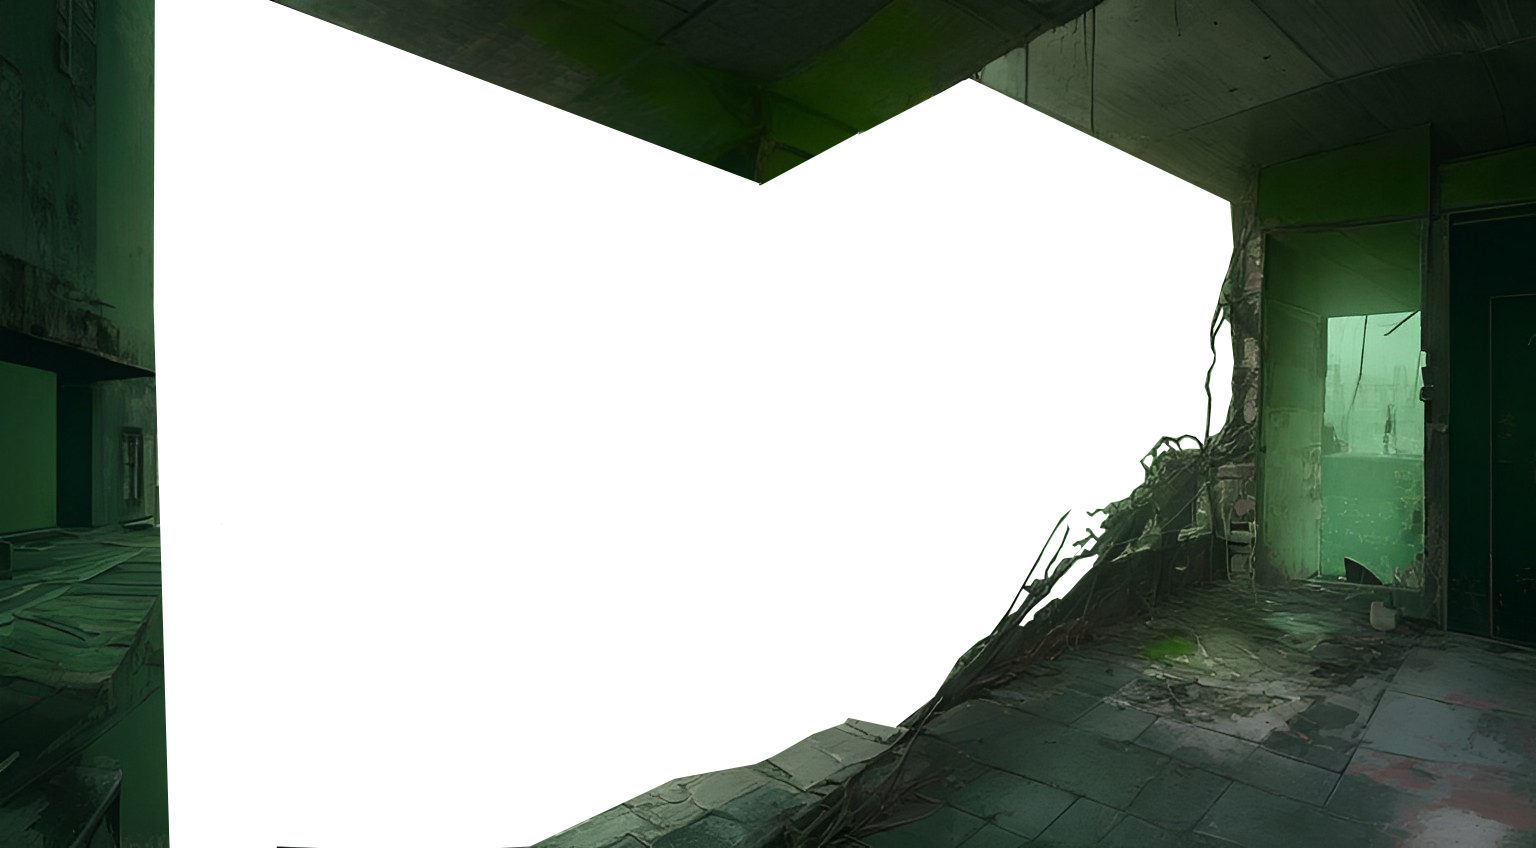
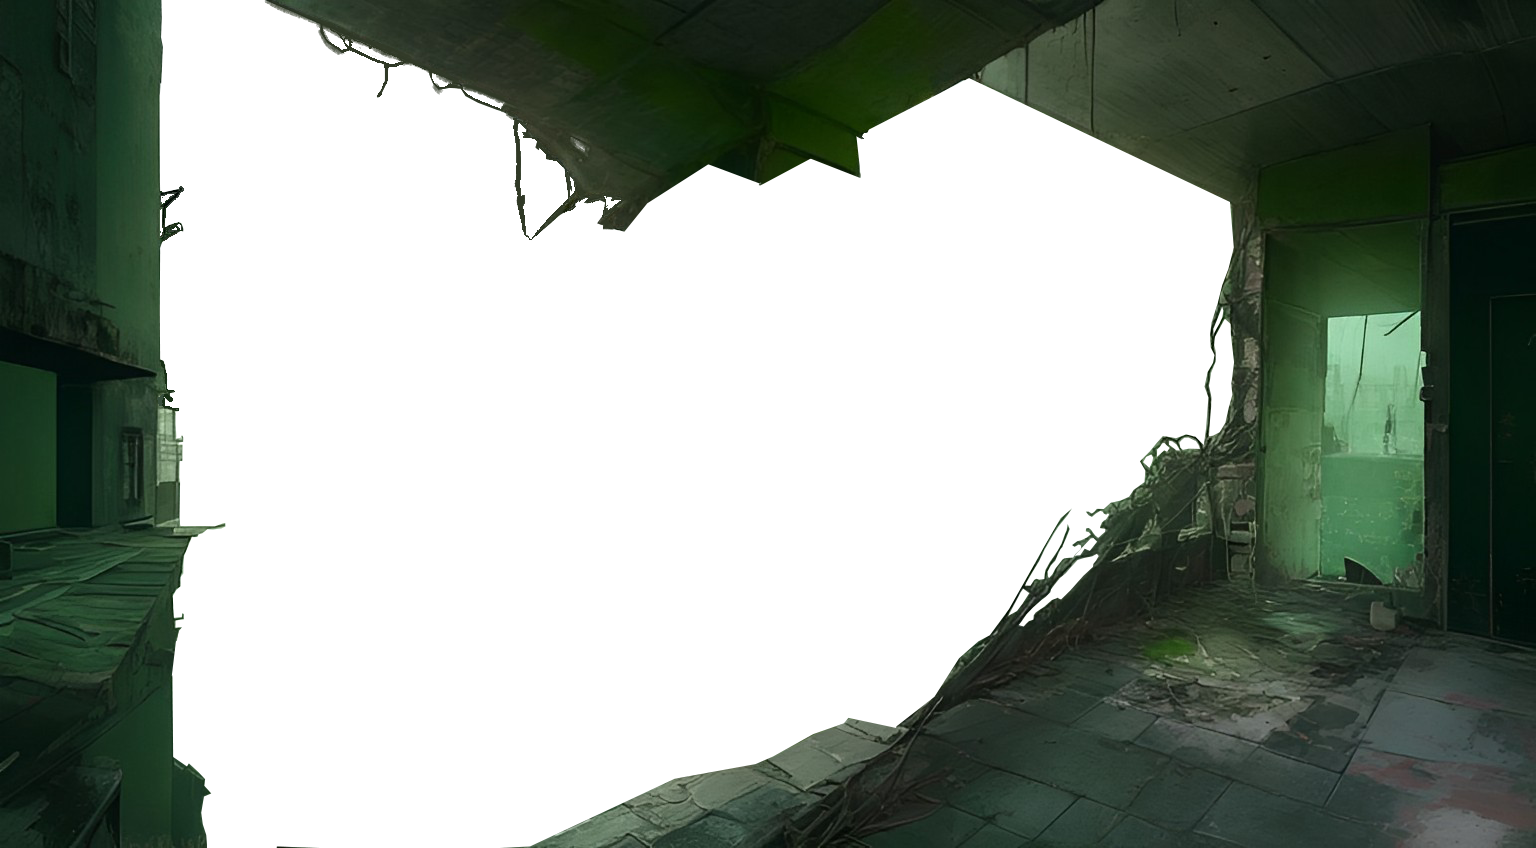
AgendaBar and Responsability Site added

diff --git a/components/LandingPage.js b/components/LandingPage.js
@@ -50,7 +50,7 @@ export default function LandingPage() {
                     width: "100%"
                 }}
             >
-                <img style={{ width: "100%" }} src="/landingPageBackground.jpg" alt="background" />
+                <img style={{ width: "100%" }} src="/LandingPageBackgroundTest6.jpg" alt="background" />
             </Plx>
             <Plx
                 parallaxData={[

diff --git a/styles/globals.css b/styles/globals.css
@@ -14,13 +14,12 @@
     }
 }
 .line{
-    border-style: dashed;
     border-width: thin;
     border-radius: 2px;
     border-color: white;
     color: transparent;
-    transform: rotate(45deg);
-    position: absolute;
+    transform: rotate(180deg);
+    position: relative;
 }
 #lineOurFuture{
     top: 3vh;
